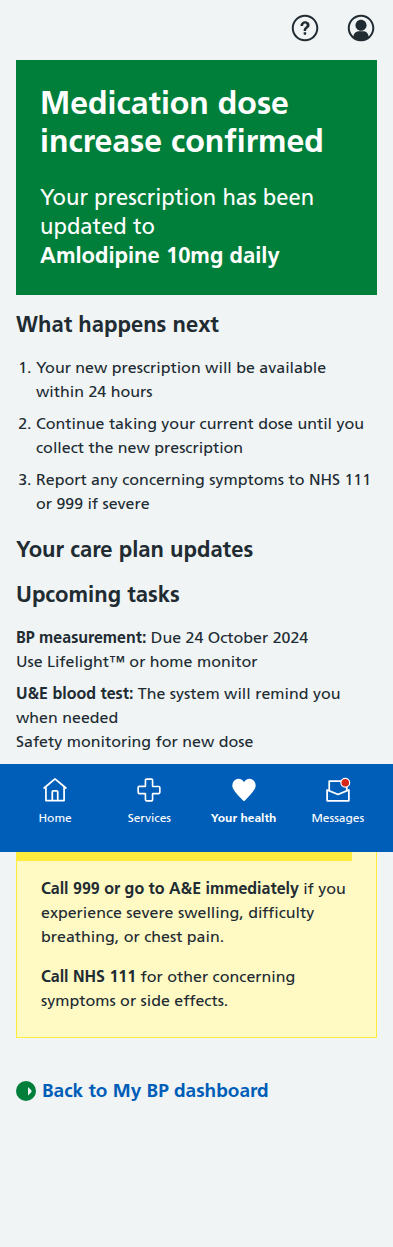
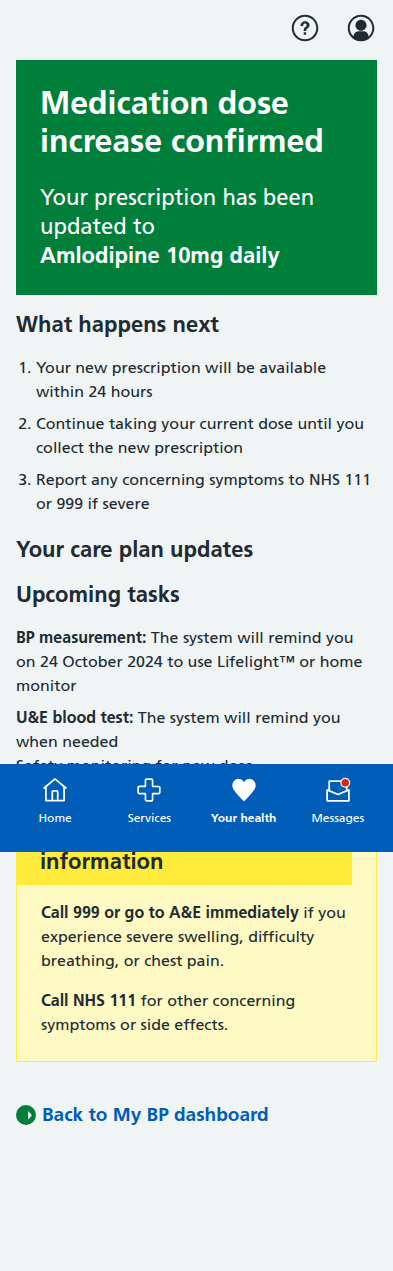
Address review feedback: update system reminder text in dose titration confirmation and verify NHS-compliant visual indicators

diff --git a/prototype/v1/app/views/pages/mybp/dose-titration/confirmation.html b/prototype/v1/app/views/pages/mybp/dose-titration/confirmation.html
@@ -35,8 +35,7 @@
         <div class="nhsuk-summary-card__body">
           <ul class="nhsuk-list">
             <li>
-              <strong>BP measurement:</strong> Due 24 October 2024
-              <br><span class="nhsuk-u-secondary-text-colour">Use Lifelight™ or home monitor</span>
+              <strong>BP measurement:</strong> The system will remind you on 24 October 2024 to use Lifelight™ or home monitor
             </li>
             <li>
               <strong>U&E blood test:</strong> The system will remind you when needed
